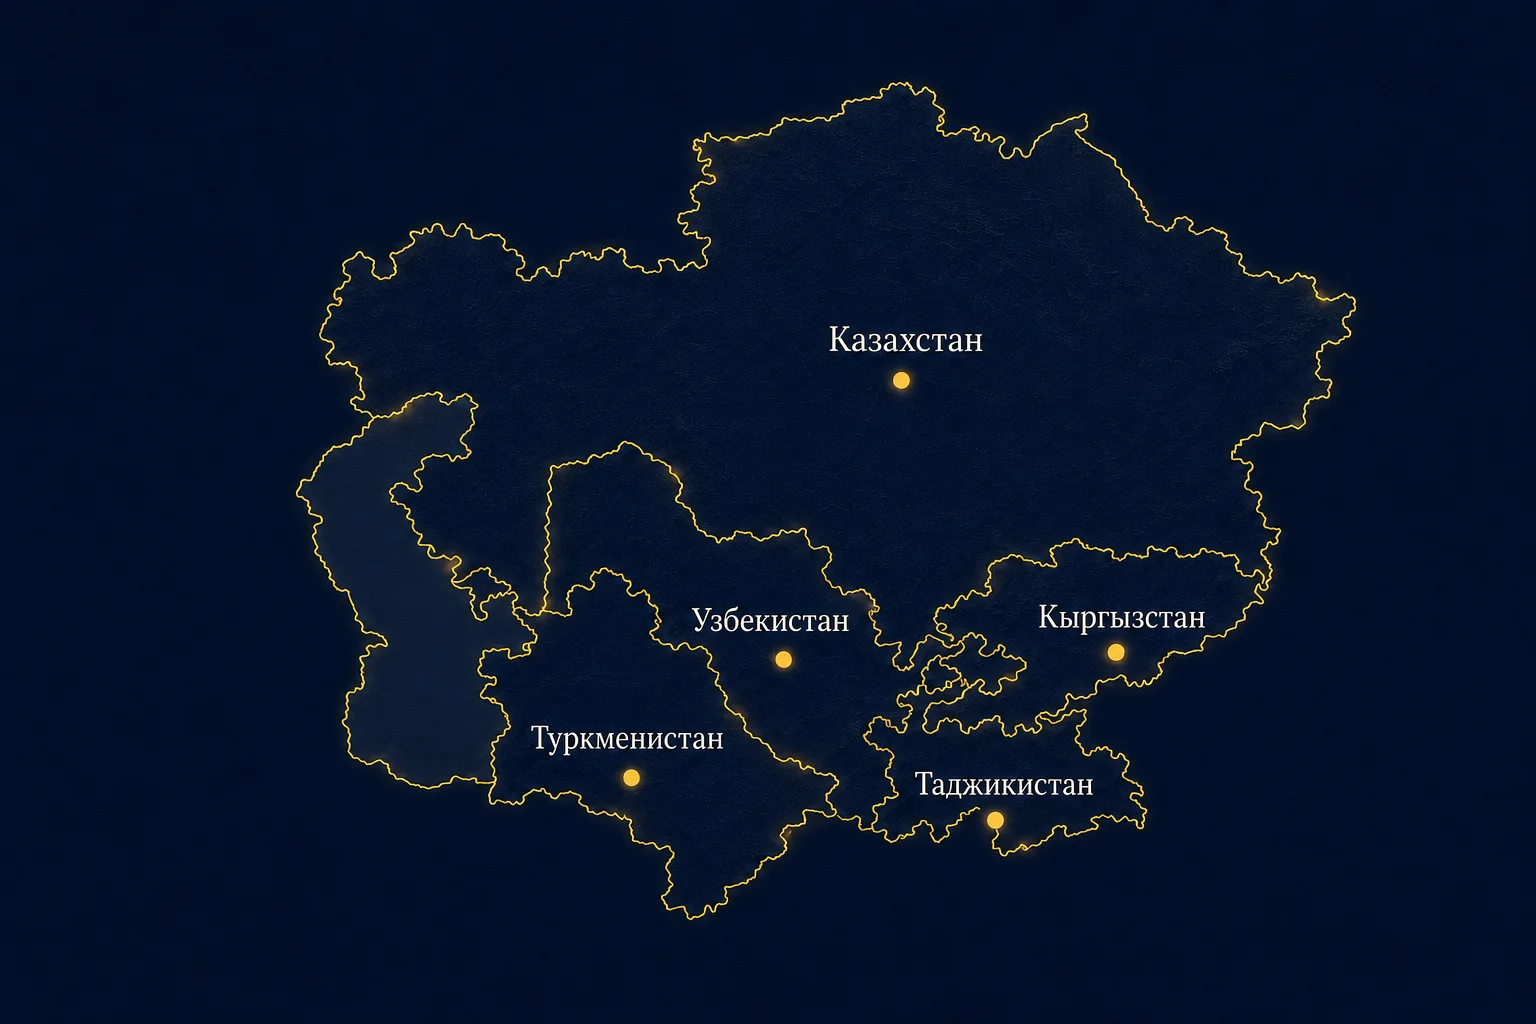
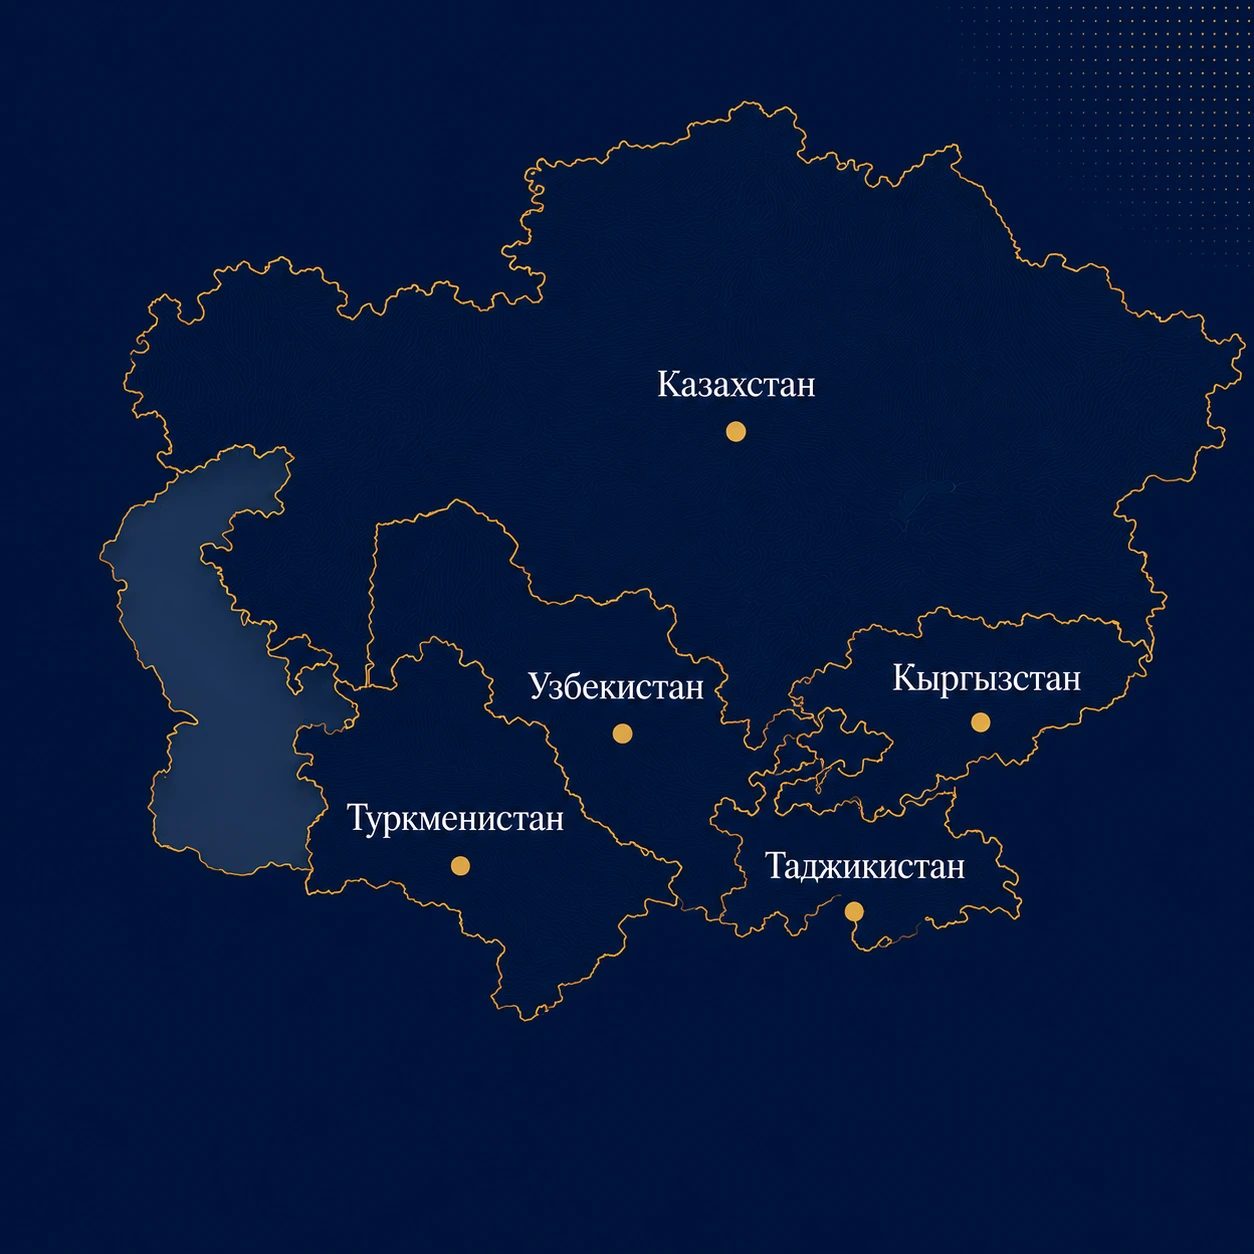
upd map

diff --git a/app/page.tsx b/app/page.tsx
@@ -414,8 +414,9 @@ function CountriesSection() {
 								src={assetPath("/images/central-asia-map-v2.webp")}
 								alt="Карта Центральной Азии с представительствами Prince Programme в Казахстане, Узбекистане, Кыргызстане, Таджикистане и Туркменистане"
 								fill
+								unoptimized
 								sizes="(min-width: 1024px) 58vw, 100vw"
-								className="object-contain p-3 sm:p-5 lg:p-0"
+								className="object-contain p-3 [filter:contrast(1.08)_saturate(1.04)] [image-rendering:-webkit-optimize-contrast] sm:p-5 lg:p-0"
 							/>
 							<div
 								className="pointer-events-none absolute inset-y-0 left-0 hidden w-[14%] bg-[linear-gradient(90deg,var(--brand-navy)_0%,rgba(7,24,47,0.72)_42%,transparent_100%)] lg:block"
@@ -423,10 +424,6 @@ function CountriesSection() {
 							/>
 							<div
 								className="pointer-events-none absolute inset-x-0 top-0 h-12 bg-[linear-gradient(180deg,var(--brand-navy)_0%,transparent_100%)] lg:hidden"
-								aria-hidden="true"
-							/>
-							<div
-								className="pointer-events-none absolute inset-0 bg-[radial-gradient(circle_at_50%_48%,transparent_36%,rgba(7,24,47,0.18)_100%)]"
 								aria-hidden="true"
 							/>
 						</figure>
